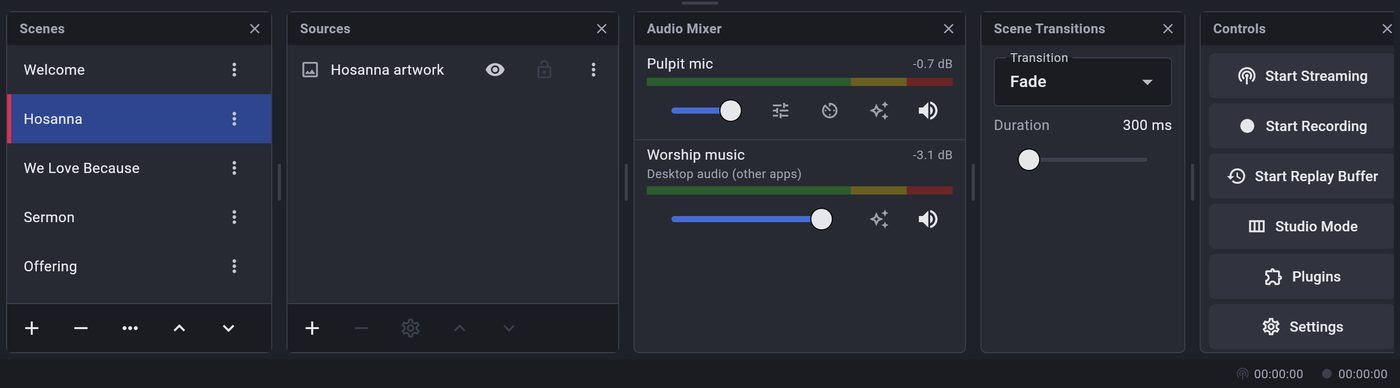
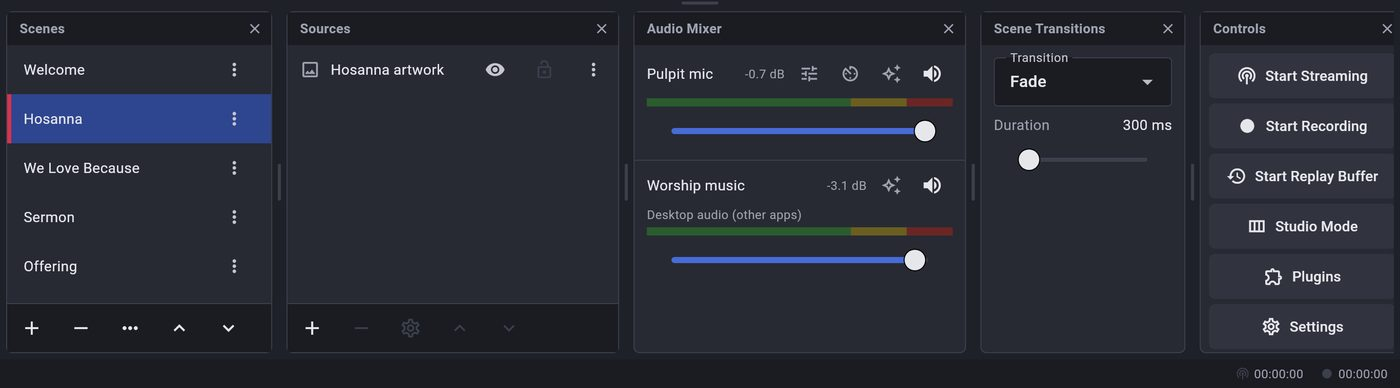
Audio Mixer: buttons on top, the fader along the bottom
Each mixer channel now shows its name, level and buttons (mic
adjustments, audio sync offset, filters, mute) on one line at the
top, with the volume fader across the full width at the bottom
under the meter. Guide screenshots are refreshed to match.

Claude-Session: https://claude.ai/code/session_01T5KX3qukrxz3ARfcJnkTYj

Changed region(s): [[0.4607, 0.1546, 0.7064, 0.6186], [0.4607, 0.6495, 0.6757, 0.7113]]

diff --git a/lib/ui/docks.dart b/lib/ui/docks.dart
@@ -474,13 +474,46 @@ class _MixerChannel extends StatelessWidget {
       child: Column(
         crossAxisAlignment: CrossAxisAlignment.stretch,
         children: [
-          Row(children: [
-            Expanded(child: Text(source.name, overflow: TextOverflow.ellipsis)),
-            Text(
-              source.volume <= 0.001 ? '-inf dB' : '${db.toStringAsFixed(1)} dB',
-              style: const TextStyle(color: ObsColors.textDim, fontSize: 12, fontFeatures: [FontFeature.tabularFigures()]),
+          // Name, level and the channel's buttons on top; the fader gets the
+          // full width at the bottom.
+          IconButtonTheme(
+            data: IconButtonThemeData(
+              style: IconButton.styleFrom(
+                visualDensity: VisualDensity.compact,
+                padding: const EdgeInsets.all(6),
+                minimumSize: const Size(36, 36),
+              ),
             ),
-          ]),
+            child: Row(children: [
+              Expanded(child: Text(source.name, overflow: TextOverflow.ellipsis)),
+              Text(
+                source.volume <= 0.001 ? '-inf dB' : '${db.toStringAsFixed(1)} dB',
+                style: const TextStyle(
+                    color: ObsColors.textDim, fontSize: 12, fontFeatures: [FontFeature.tabularFigures()]),
+              ),
+              const SizedBox(width: 4),
+              if (isMic) _MicAdjustButton(source: source),
+              if (source.type.hasSyncOffset) _SyncOffsetButton(source: source),
+              IconButton(
+                icon: Icon(
+                  Icons.auto_awesome_outlined,
+                  size: 20,
+                  color: source.filters.any((f) => f.enabled) ? ObsColors.accent : ObsColors.textDim,
+                ),
+                tooltip: 'Filters',
+                onPressed: () => switch (studio.itemsOf(source.id).firstOrNull) {
+                  final it? => showSourceFilters(context, it.id),
+                  null => showFiltersWindow(context, sourceId: source.id),
+                },
+              ),
+              IconButton(
+                icon: Icon(source.muted ? Icons.volume_off : Icons.volume_up, size: 22),
+                color: source.muted ? ObsColors.live : ObsColors.text,
+                tooltip: source.muted ? 'Unmute' : 'Mute',
+                onPressed: () => studio.setMuted(source.id, !source.muted),
+              ),
+            ]),
+          ),
           if (source.type == SourceType.audioInput)
             Row(children: [
               Expanded(
@@ -497,35 +530,10 @@ class _MixerChannel extends StatelessWidget {
             const Text('Desktop audio (other apps)', style: TextStyle(color: ObsColors.textDim, fontSize: 12)),
           const SizedBox(height: 4),
           _LevelMeter(rms: level?.rms ?? 0, peak: level?.peak ?? 0, muted: source.muted),
-          Row(
-            children: [
-              Expanded(
-                child: Slider(
-                  value: gainToFader(source.volume),
-                  onChanged: (f) => studio.setVolume(source.id, faderToGain(f)),
-                ),
-              ),
-              if (isMic) _MicAdjustButton(source: source),
-              if (source.type.hasSyncOffset) _SyncOffsetButton(source: source),
-              IconButton(
-                icon: Icon(
-                  Icons.auto_awesome_outlined,
-                  size: 20,
-                  color: source.filters.any((f) => f.enabled) ? ObsColors.accent : ObsColors.textDim,
-                ),
-                tooltip: 'Filters',
-                onPressed: () => switch (studio.itemsOf(source.id).firstOrNull) {
-                  final it? => showSourceFilters(context, it.id),
-                  null => showFiltersWindow(context, sourceId: source.id),
-                },
-              ),
-              IconButton(
-                icon: Icon(source.muted ? Icons.volume_off : Icons.volume_up),
-                color: source.muted ? ObsColors.live : ObsColors.text,
-                tooltip: source.muted ? 'Unmute' : 'Mute',
-                onPressed: () => studio.setMuted(source.id, !source.muted),
-              ),
-            ],
+          Slider(
+            key: ValueKey('mixer-fader-${source.id}'),
+            value: gainToFader(source.volume),
+            onChanged: (f) => studio.setVolume(source.id, faderToGain(f)),
           ),
         ],
       ),
